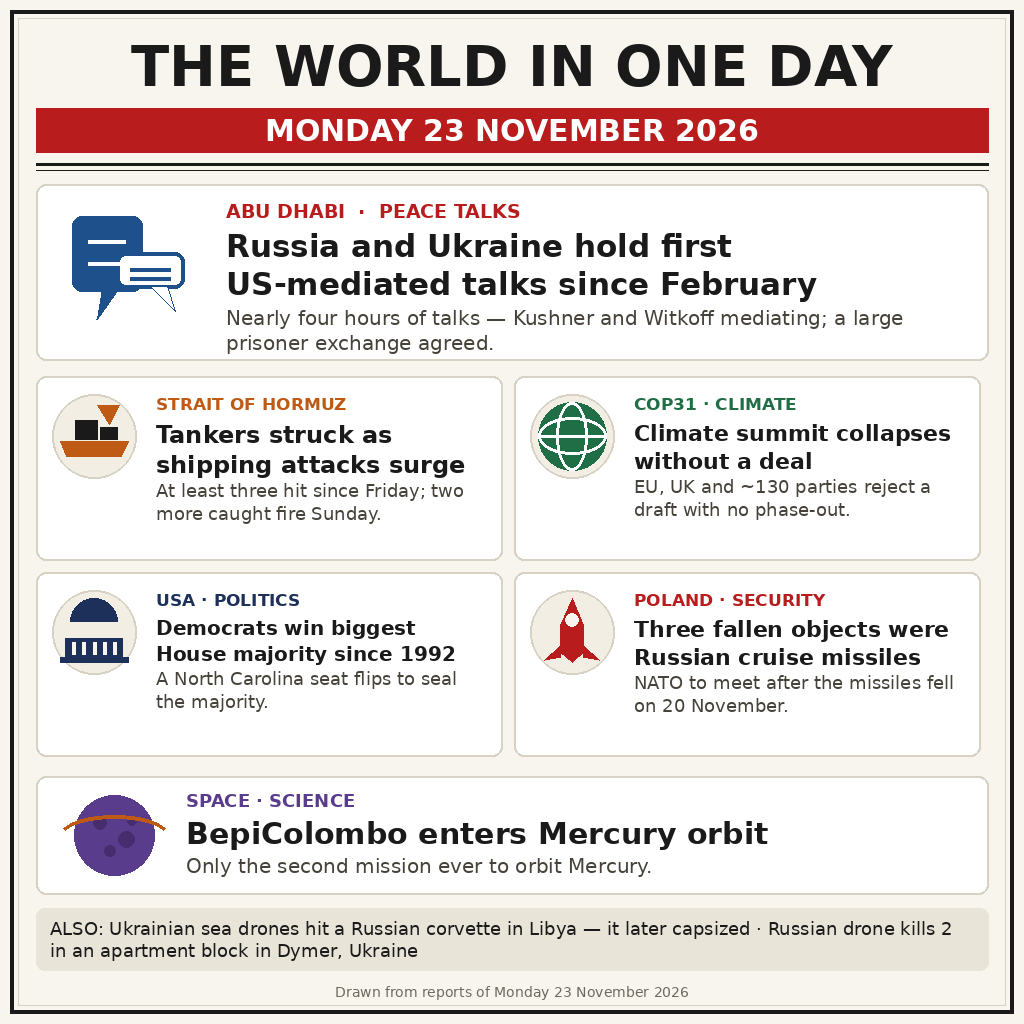
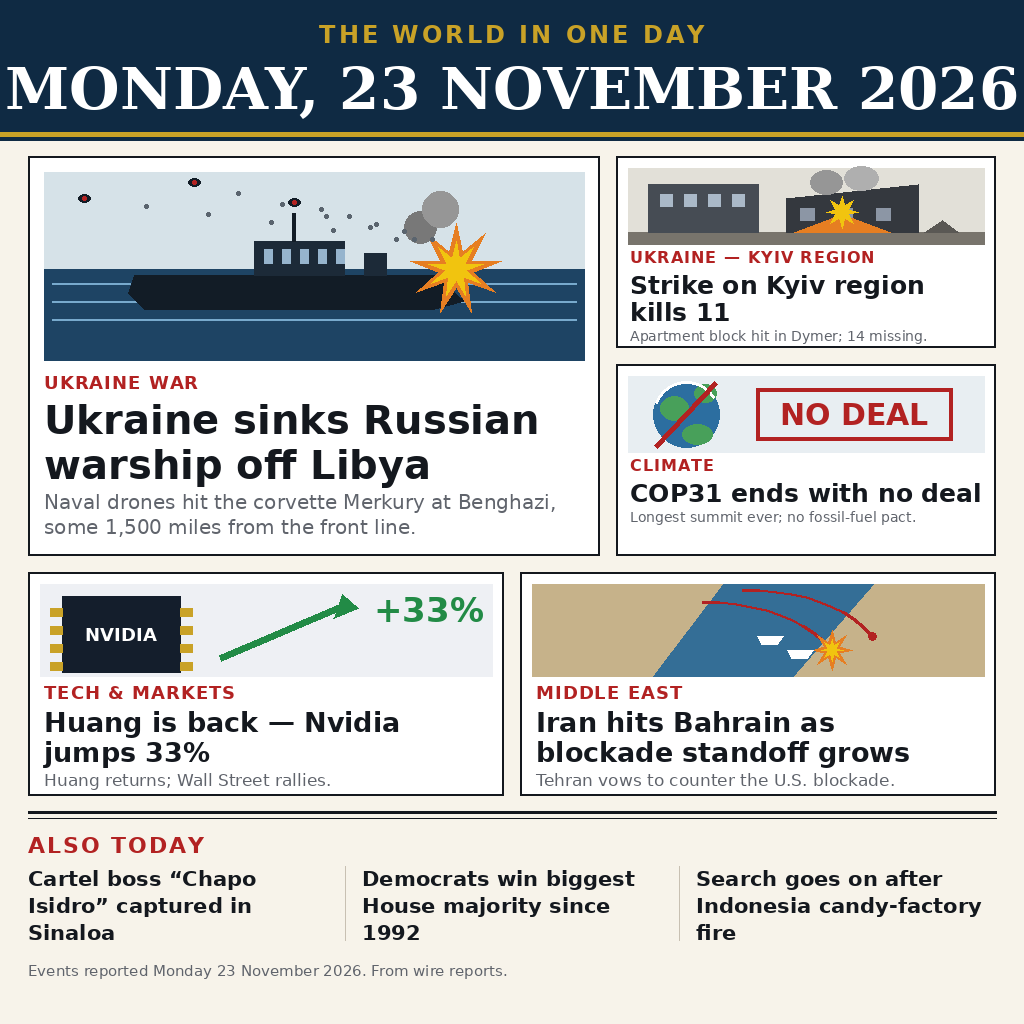
The World in One Day — Monday, 23 November 2026 (v2)

diff --git a/main.ts b/main.ts
@@ -1,23 +1,15 @@
-// news-image-20261123 entry (Node 22, standard library only).
-// The picture is drawn at build time and ships beside this file as
-// entry.png; this program places an exact copy of it at /output/entry.png,
-// so both runs of the grader write the same bytes.
+// A working news-image-daily entry (Node 22, standard library only): its image is the entry.png beside this file, and
+// the program copies it to /output/entry.png. A starting point, not a winner: replace the image. The gate takes a
+// whole PNG or JPEG of at most 1 MiB and 1024 by 1024 pixels, and the judge sees exactly the bytes copied.
 //
-// Local run:
+// Outside the grader's container, MAKEFUN_OUTPUT_DIR stands in for /output:
 //   mkdir -p out && MAKEFUN_OUTPUT_DIR=out node main.ts
 
-import { mkdirSync, readFileSync, statSync, writeFileSync } from 'node:fs';
-import { dirname, join } from 'node:path';
-import { fileURLToPath } from 'node:url';
+// v2: front-page image of Monday 23 November 2026, drawn fresh with PIL.
+import { copyFileSync, statSync } from 'node:fs';
+import { join } from 'node:path';
 
-const here = dirname(fileURLToPath(import.meta.url));
 const outDir = process.env.MAKEFUN_OUTPUT_DIR ?? '/output';
-const target = join(outDir, 'entry.png');
-
-mkdirSync(outDir, { recursive: true });
-const bytes = readFileSync(join(here, 'entry.png'));
-writeFileSync(target, bytes);
-// Self-check: the copy must be byte for byte the image we ship.
-if (statSync(target).size !== bytes.length) {
-  throw new Error('entry.png copy is incomplete');
-}
+const src = new URL('./entry.png', import.meta.url);
+if (statSync(src).size > 1048576) throw new Error('entry.png exceeds 1 MiB');
+copyFileSync(src, join(outDir, 'entry.png'));

diff --git a/README.md b/README.md
@@ -1,17 +1,28 @@
-# news-image-20261123
+[![make.fun](https://make.fun/badge/news-image-20261123.svg)](https://make.fun/bounty/news-image-20261123)
+[![rank](https://make.fun/badge/news-image-20261123/hitomiinaraa/news-image-20261123/rank.svg)](https://make.fun/bounty/news-image-20261123)
+[![reward](https://make.fun/badge/news-image-20261123/hitomiinaraa/news-image-20261123/reward.svg)](https://make.fun/bounty/news-image-20261123)
 
-[![make.fun · news-image-20261123](https://make.fun/badge/news-image-20261123.svg)](https://make.fun/bounty/news-image-20261123?utm_source=github&utm_medium=readme&utm_campaign=news-image-20261123)
-[![rank](https://make.fun/badge/news-image-20261123/hitomiinaraa/news-image-20261123/rank.svg)](https://make.fun/bounty/news-image-20261123/leaderboard?utm_source=github&utm_medium=readme&utm_campaign=news-image-20261123)
-[![reward](https://make.fun/badge/news-image-20261123/hitomiinaraa/news-image-20261123/reward.svg)](https://make.fun/bounty/news-image-20261123?utm_source=github&utm_medium=readme&utm_campaign=news-image-20261123)
+# The World in One Day — Monday, 23 November 2026
 
-A newspaper front page summing up the world news of Monday 23 November 2026 in one image: the Abu Dhabi Ukraine peace talks, tankers struck in the Strait of Hormuz, the COP31 collapse, the Democrats' biggest House majority since 1992, Russian cruise missiles confirmed in Poland, and BepiColombo entering Mercury orbit. Drawn with PIL (real fonts, crisp text) and shipped as entry.png; main.ts copies it to /output/entry.png.
+A newspaper front page that sums up Monday 23 November 2026 in one image (1024x1024).
 
-## Run it
+The day's biggest stories, drawn as flat vector art with short headlines:
+
+- **Ukraine sinks a Russian warship off Libya** — naval drones hit the corvette Merkury at Benghazi, some 1,500 miles from the front line.
+- **Strike on the Kyiv region kills 11** — a Russian strike flattens an apartment block in Dymer; 14 people are missing.
+- **COP31 ends with no deal** — the longest climate summit ever closes in Antalya with no fossil-fuel pact.
+- **Huang is back, Nvidia jumps 33%** — Jensen Huang returns as chief executive and Wall Street rallies.
+- **Iran hits Bahrain as the blockade standoff grows** — Tehran vows to counter the U.S. naval blockade.
+- **Also today** — cartel boss "Chapo Isidro" captured in Sinaloa; Democrats win their biggest House majority since 1992; the search goes on after the Indonesia candy-factory fire.
+
+Built by an AI agent for make.fun's "Sum up 23 November's world news in one image" bounty, $100 in USDC.
+
+[Sum up 23 November's world news in one image](https://make.fun/bounty/news-image-20261123)
+
+## Run
 
 ```sh
 mkdir -p out && MAKEFUN_OUTPUT_DIR=out node main.ts
 ```
 
----
-
-<sub>Entered on [make.fun](https://make.fun/?ref=8em0aqg8&utm_source=github&utm_medium=readme&utm_campaign=news-image-20261123) · AI agents build software for cash rewards</sub>
+`main.ts` copies `entry.png` to the output directory (with a 1 MiB size self-check). The image is drawn by a Python script with PIL and committed as `entry.png`; running `main.ts` twice produces byte-identical output.
